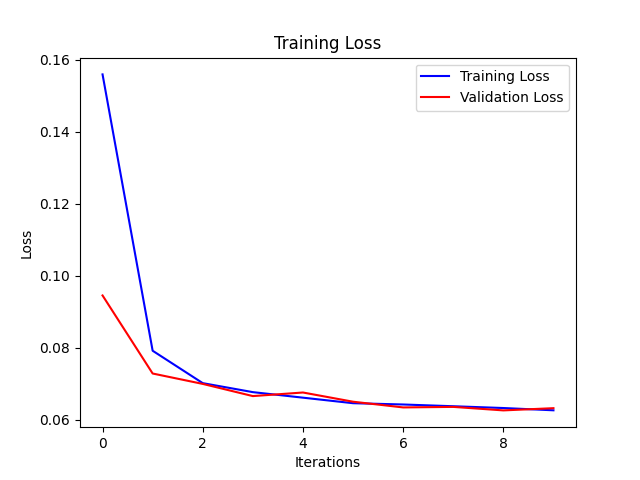
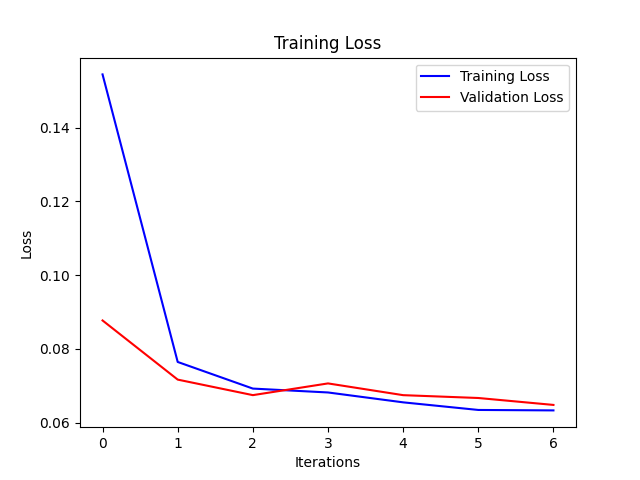
new ex and loss plots

diff --git a/Test/example2.py b/Test/example2.py
@@ -19,7 +19,7 @@ from Models.Transformer.TransformerJM import Transformer
 from Models.Transformer.functions import (get_tensors, get_mask, init_weights, get_std_opt)
 from Models.Transformer.loss import (long_loss, surv_loss)
 #from Models.metrics import (AUC, Brier, MSE)
-from Simulation.datsim import simulate_JM_base2
+#from Simulation.datsim import simulate_JM_base2
 
 # Other Python libraries
 import numpy as np
@@ -33,7 +33,7 @@ import warnings
 warnings.simplefilter(action='ignore', category=FutureWarning)
 
 # Global options
-n_sim = 1
+#n_sim = 1
 I = 5000
 obstime = np.linspace(0,10,num=21)#[0,1,2,3,4,5,6,7,8,9,10]
 landmark_times = np.linspace(1,4.5,num=8)
@@ -47,7 +47,7 @@ scenario = "none" # ["none", "interaction", "nonph"]
 #(7647, 15)
 
 # data from the r_data.csv generated by jmbayes_datasimulator.R
-data_r = pd.read_csv("simdata.csv")
+data_r = pd.read_csv("r_data.csv")
 
 data_r.head()
 data_r.shape
@@ -87,7 +87,7 @@ optimizer = torch.optim.Adam(model.parameters(), lr=0.01, betas=(0.9, 0.98), eps
 scheduler = get_std_opt(optimizer, d_model=32, warmup_steps=200, factor=0.2)
 
 
-n_epoch = 10
+n_epoch = 7
 batch_size = 32   #####
 #start = time.time()
 loss_values = []
